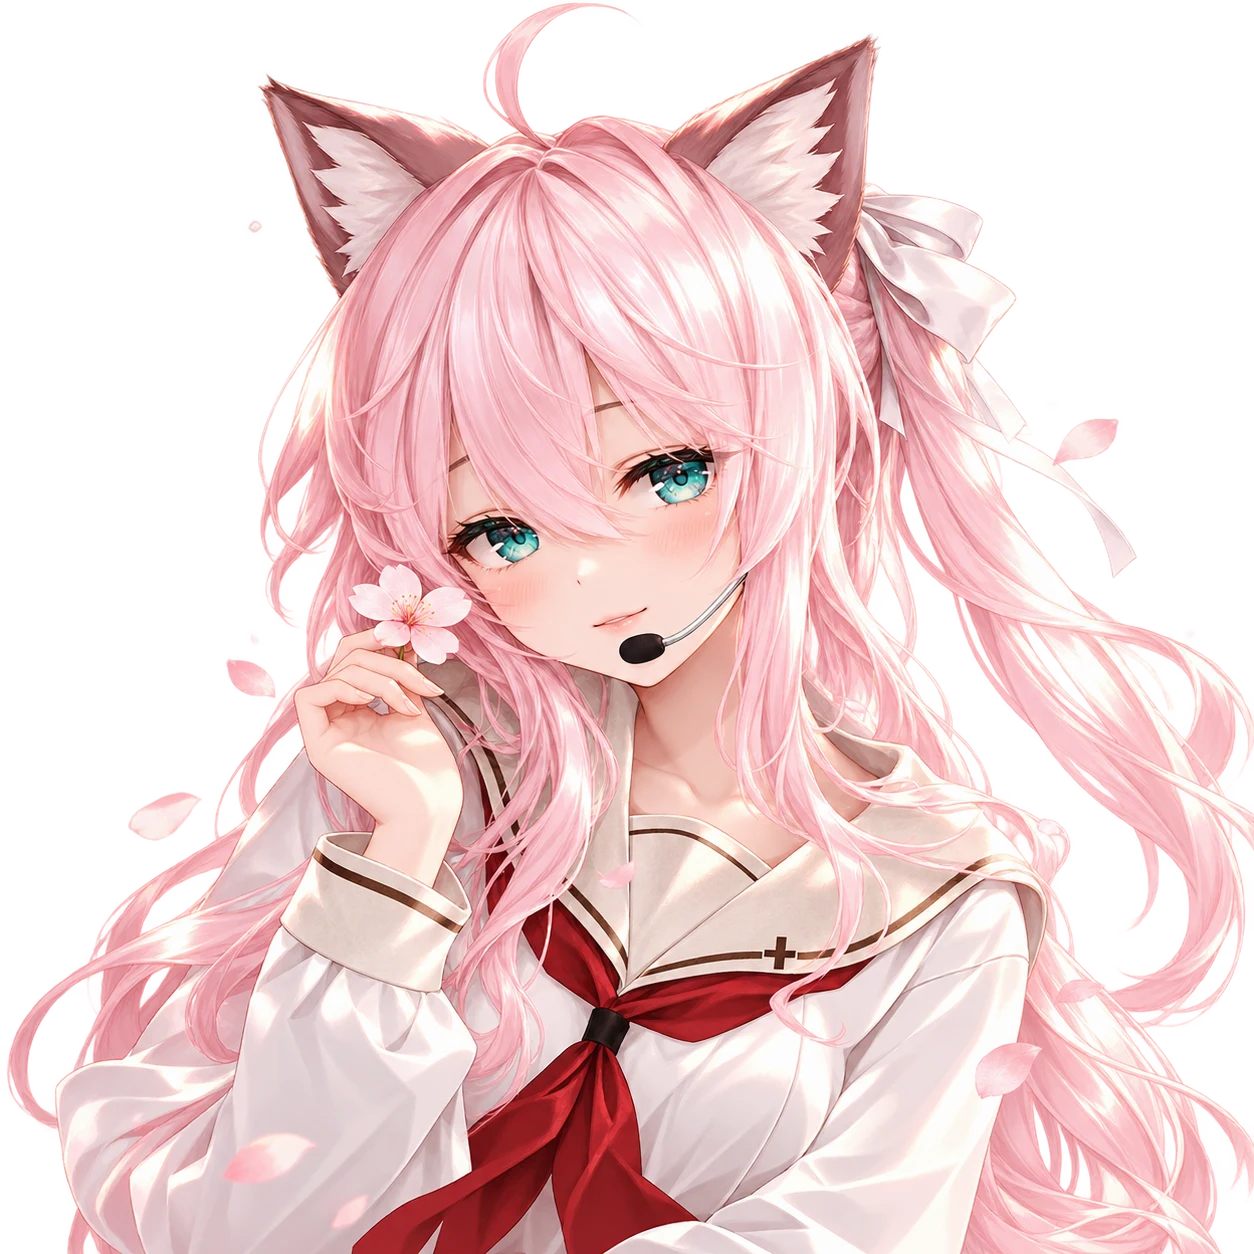
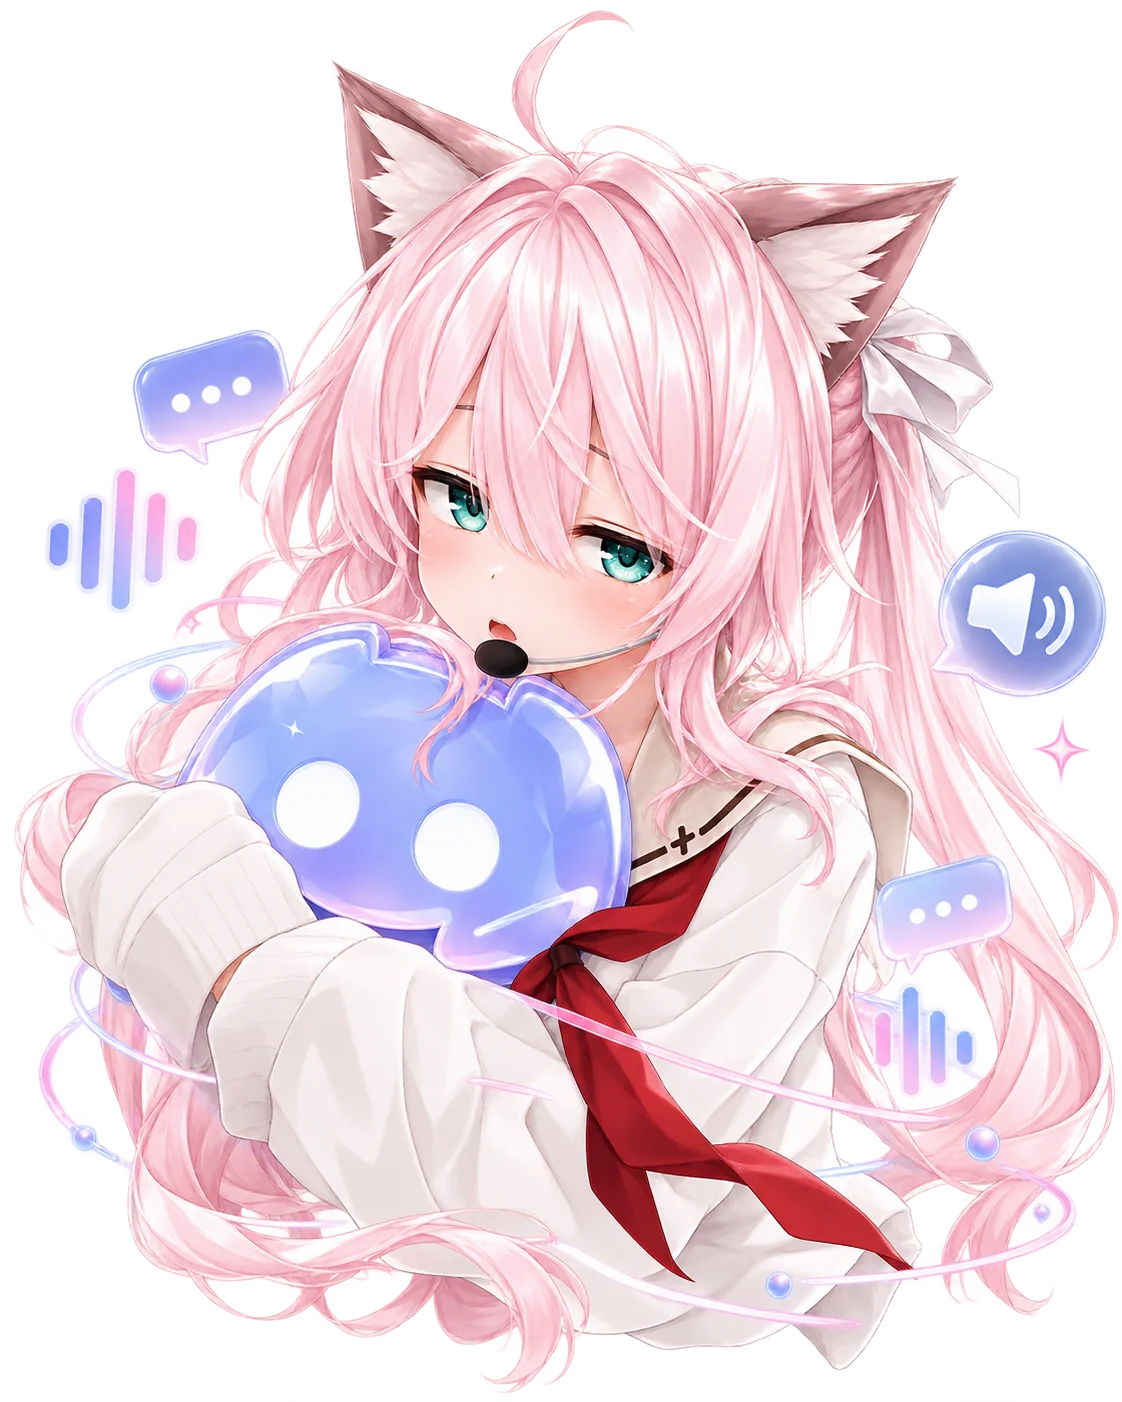
ヒーロー画像と周辺の調整

diff --git a/index.html b/index.html
@@ -77,7 +77,7 @@
                     <div class="hero-ring" aria-hidden="true"></div>
                     <div class="hero-card">
                         <div class="hero-card-inner">
-                            <img src="assets/hanako-hero.webp" alt="桜の花を手にした花子。桃色の髪と猫耳、白い制服が特徴のキャラクター" />
+                            <img src="assets/hanako-hero.webp" alt="Discordのマスコットを抱きしめてヘッドセットで話す花子。桃色の髪と猫耳、白い制服が特徴のキャラクター" />
                         </div>
                     </div>
                     <div class="float-chip chip-a" aria-hidden="true">

diff --git a/style.css b/style.css
@@ -481,7 +481,10 @@ img {
 }
 
 .hero-card-inner img {
-    width: 92%;
+    height: 96%;
+    width: auto;
+    max-width: 92%;
+    object-fit: contain;
     display: block;
     filter: drop-shadow(0 20px 40px rgba(124, 58, 237, 0.5));
 }
